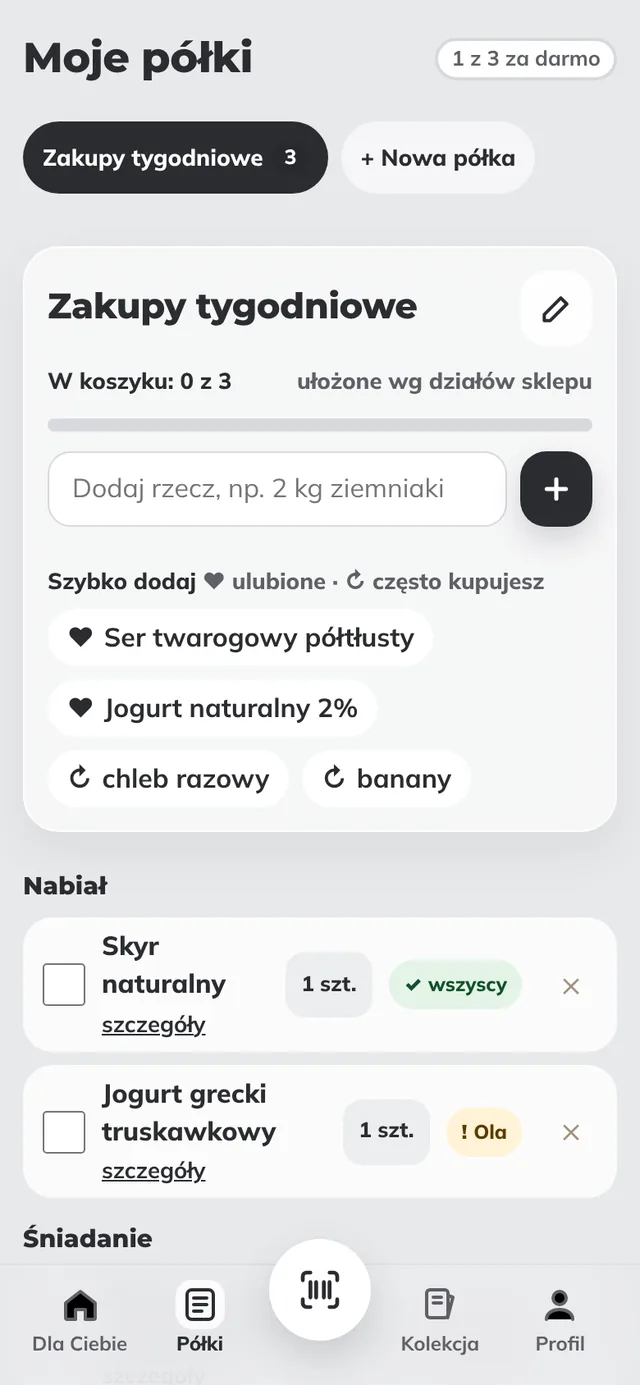
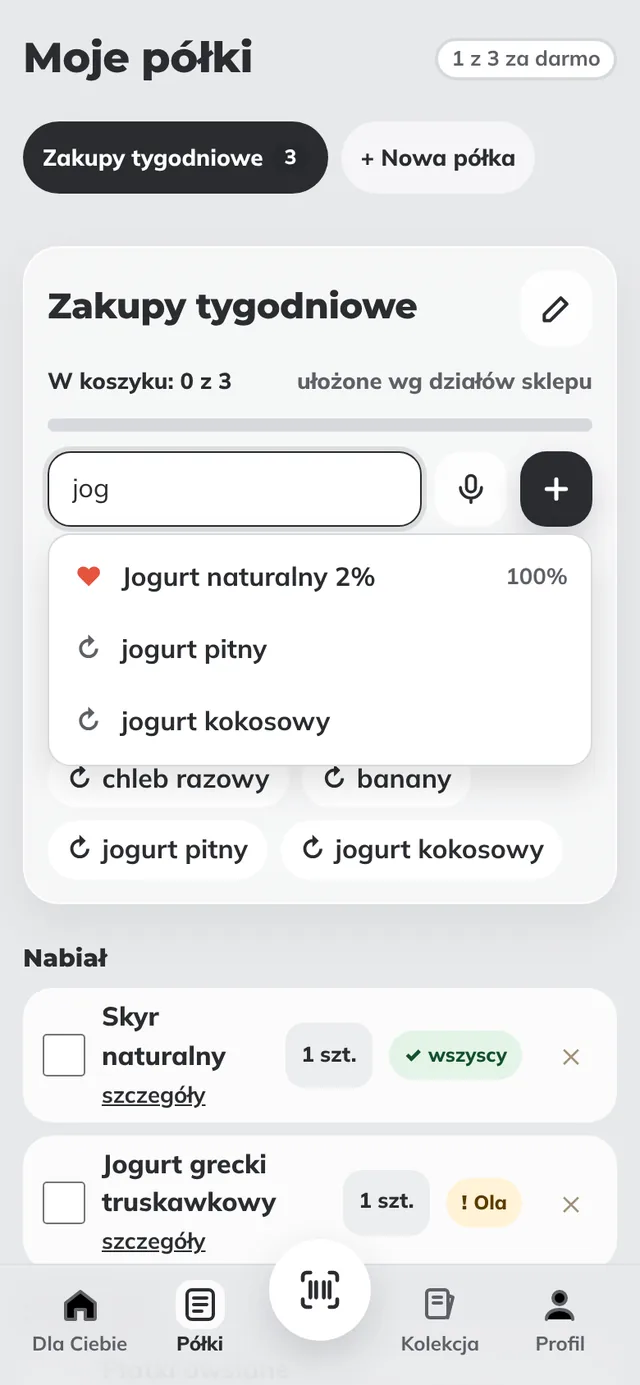
Strona: sekcja Półki – dyktowanie, podpowiedzi i zamiana na zeskanowany produkt (tekst PL/EN, nowy zrzut)
Claude-Session: https://claude.ai/code/session_01UcuQLcZesRZG1Bfc88xLvs

diff --git a/index.html b/index.html
@@ -25,7 +25,7 @@
 <meta name="twitter:title" content="Lupka – jeden skan, wynik dla całej rodziny">
 <meta name="twitter:description" content="Skaner produktów spożywczych i kosmetyków: sprawdza alergie, dietę, cukier i sól jednocześnie dla każdego domownika. Za darmo, bez reklam i bez konta.">
 <meta name="twitter:image" content="https://lupka.app/img/og.jpg">
-<script type="application/ld+json">{"@context":"https://schema.org","@graph":[{"@type":"Organization","@id":"https://lupka.app/#org","name":"Lupka","url":"https://lupka.app/","logo":"https://lupka.app/icon-512.png","founder":{"@type":"Person","name":"Rafał Mokrowiecki"},"email":"rafalmsolutions@gmail.com"},{"@type":"WebSite","@id":"https://lupka.app/#site","name":"Lupka","url":"https://lupka.app/","inLanguage":"pl-PL","publisher":{"@id":"https://lupka.app/#org"}},{"@type":"WebApplication","@id":"https://lupka.app/#app","name":"Lupka","alternateName":"Lupka – skaner produktów dla rodziny","url":"https://lupka.app/app/","description":"Skaner produktów spożywczych i kosmetyków: sprawdza alergie, dietę, cukier i sól jednocześnie dla każdego domownika. Za darmo, bez reklam i bez konta.","applicationCategory":"HealthApplication","applicationSubCategory":"Skaner kodów kreskowych żywności","operatingSystem":"Android, iOS (w przeglądarce, do zainstalowania na ekranie głównym)","browserRequirements":"Wymaga przeglądarki z obsługą JavaScript","inLanguage":"pl-PL","isAccessibleForFree":true,"offers":{"@type":"Offer","price":"0","priceCurrency":"PLN"},"image":"https://lupka.app/img/og.jpg","screenshot":["https://lupka.app/img/prod.webp","https://lupka.app/img/oats.webp","https://lupka.app/img/cmp.webp"],"featureList":["Skanowanie kodu kreskowego żywności i kosmetyków","Wynik dla każdego domownika osobno i jeden wynik dla całej rodziny","Alergeny i diety: gluten, laktoza, orzechy, wegańskie i inne","Pilnowanie cukru, soli, tłuszczów nasyconych, białka","Wyjaśnienie wyniku punkt po punkcie","Lepsze zamienniki z tej samej kategorii","Porównanie 2–3 produktów","Wyszukiwanie po nazwie i marce","Listy zakupów (półki)","Ulubione produkty i szybkie dodawanie często kupowanych","Album, odznaki i wyzwania tygodnia","Działa bez internetu"],"publisher":{"@id":"https://lupka.app/#org"}},{"@type":"FAQPage","@id":"https://lupka.app/#faq","inLanguage":"pl-PL","mainEntity":[{"@type":"Question","name":"Czy Lupka jest darmowa?","acceptedAnswer":{"@type":"Answer","text":"Skanowanie, wynik dla rodziny, wyjaśnienia, zamienniki, porównanie i wyszukiwanie są za darmo i takie zostaną, bez limitu skanów. Później dojdzie płatny pakiet Lupka Plus z wygodnymi dodatkami, np. rodzina na kilku telefonach, wspólna lista zakupów, kopia danych i powiadomienia o wycofanych produktach. Bez reklam i bez sprzedawania danych."}},{"@type":"Question","name":"Czy trzeba coś instalować?","acceptedAnswer":{"@type":"Answer","text":"Nie. Lupka działa w przeglądarce telefonu. Możesz dodać ją do ekranu głównego jak aplikację: w Chrome „Zainstaluj aplikację”, na iPhonie Udostępnij → „Do ekranu początkowego”."}},{"@type":"Question","name":"Skąd są dane o produktach?","acceptedAnswer":{"@type":"Answer","text":"Z Open Food Facts, otwartej bazy tworzonej przez kupujących. Gdy czegoś brakuje, uzupełnisz to zdjęciem etykiety."}},{"@type":"Question","name":"Co, jeśli produktu nie ma?","acceptedAnswer":{"@type":"Answer","text":"Zeskanuj go i dodaj w minutę. Dostaniesz punkty, a produkt zobaczą też inni."}},{"@type":"Question","name":"Czy Lupka zastępuje dietetyka?","acceptedAnswer":{"@type":"Answer","text":"Nie. Pomaga czytać etykiety i porównywać produkty. Przy alergii zawsze sprawdź też etykietę na opakowaniu."}},{"@type":"Question","name":"Czy jest wersja po angielsku?","acceptedAnswer":{"@type":"Answer","text":"Ta strona tak. Aplikacja jest na razie po polsku, wersja angielska jest w planach."}}]}]}</script>
+<script type="application/ld+json">{"@context":"https://schema.org","@graph":[{"@type":"Organization","@id":"https://lupka.app/#org","name":"Lupka","url":"https://lupka.app/","logo":"https://lupka.app/icon-512.png","founder":{"@type":"Person","name":"Rafał Mokrowiecki"},"email":"rafalmsolutions@gmail.com"},{"@type":"WebSite","@id":"https://lupka.app/#site","name":"Lupka","url":"https://lupka.app/","inLanguage":"pl-PL","publisher":{"@id":"https://lupka.app/#org"}},{"@type":"WebApplication","@id":"https://lupka.app/#app","name":"Lupka","alternateName":"Lupka – skaner produktów dla rodziny","url":"https://lupka.app/app/","description":"Skaner produktów spożywczych i kosmetyków: sprawdza alergie, dietę, cukier i sól jednocześnie dla każdego domownika. Za darmo, bez reklam i bez konta.","applicationCategory":"HealthApplication","applicationSubCategory":"Skaner kodów kreskowych żywności","operatingSystem":"Android, iOS (w przeglądarce, do zainstalowania na ekranie głównym)","browserRequirements":"Wymaga przeglądarki z obsługą JavaScript","inLanguage":"pl-PL","isAccessibleForFree":true,"offers":{"@type":"Offer","price":"0","priceCurrency":"PLN"},"image":"https://lupka.app/img/og.jpg","screenshot":["https://lupka.app/img/prod.webp","https://lupka.app/img/oats.webp","https://lupka.app/img/cmp.webp"],"featureList":["Skanowanie kodu kreskowego żywności i kosmetyków","Wynik dla każdego domownika osobno i jeden wynik dla całej rodziny","Alergeny i diety: gluten, laktoza, orzechy, wegańskie i inne","Pilnowanie cukru, soli, tłuszczów nasyconych, białka","Wyjaśnienie wyniku punkt po punkcie","Lepsze zamienniki z tej samej kategorii","Porównanie 2–3 produktów","Wyszukiwanie po nazwie i marce","Listy zakupów (półki)","Ulubione produkty i szybkie dodawanie często kupowanych","Dyktowanie listy zakupów i podpowiedzi podczas pisania","Album, odznaki i wyzwania tygodnia","Działa bez internetu"],"publisher":{"@id":"https://lupka.app/#org"}},{"@type":"FAQPage","@id":"https://lupka.app/#faq","inLanguage":"pl-PL","mainEntity":[{"@type":"Question","name":"Czy Lupka jest darmowa?","acceptedAnswer":{"@type":"Answer","text":"Skanowanie, wynik dla rodziny, wyjaśnienia, zamienniki, porównanie i wyszukiwanie są za darmo i takie zostaną, bez limitu skanów. Później dojdzie płatny pakiet Lupka Plus z wygodnymi dodatkami, np. rodzina na kilku telefonach, wspólna lista zakupów, kopia danych i powiadomienia o wycofanych produktach. Bez reklam i bez sprzedawania danych."}},{"@type":"Question","name":"Czy trzeba coś instalować?","acceptedAnswer":{"@type":"Answer","text":"Nie. Lupka działa w przeglądarce telefonu. Możesz dodać ją do ekranu głównego jak aplikację: w Chrome „Zainstaluj aplikację”, na iPhonie Udostępnij → „Do ekranu początkowego”."}},{"@type":"Question","name":"Skąd są dane o produktach?","acceptedAnswer":{"@type":"Answer","text":"Z Open Food Facts, otwartej bazy tworzonej przez kupujących. Gdy czegoś brakuje, uzupełnisz to zdjęciem etykiety."}},{"@type":"Question","name":"Co, jeśli produktu nie ma?","acceptedAnswer":{"@type":"Answer","text":"Zeskanuj go i dodaj w minutę. Dostaniesz punkty, a produkt zobaczą też inni."}},{"@type":"Question","name":"Czy Lupka zastępuje dietetyka?","acceptedAnswer":{"@type":"Answer","text":"Nie. Pomaga czytać etykiety i porównywać produkty. Przy alergii zawsze sprawdź też etykietę na opakowaniu."}},{"@type":"Question","name":"Czy jest wersja po angielsku?","acceptedAnswer":{"@type":"Answer","text":"Ta strona tak. Aplikacja jest na razie po polsku, wersja angielska jest w planach."}}]}]}</script>
 <link rel="preconnect" href="https://fonts.googleapis.com"><link rel="preconnect" href="https://fonts.gstatic.com" crossorigin>
 <link rel="stylesheet" href="https://fonts.googleapis.com/css2?family=Montserrat:wght@200;300;800;900&family=Mulish:wght@400;600;700;800&display=swap">
 <style>
@@ -304,8 +304,8 @@ footer .links{display:flex;gap:26px;flex-wrap:wrap;font-weight:800;font-size:14.
 <section id="funkcje" style="padding-top:20px"><div class="wrap"><div class="feats" id="feats"><article class="feat" id="rodzina" style="--c:#E5533D"><div class="feat-txt" data-reveal><span class="kick"><span data-t="f1k">DLA RODZINY</span></span><h3><span data-t="f1t">Kupujesz dziś tylko dla dziecka? Wyłącz resztę</span></h3><p><span data-t="f1p">Przy każdym produkcie widzisz kółka wszystkich osób i wiesz, komu nie pasuje i dlaczego. Gdy zakupy są tylko dla części rodziny, wyłączasz pozostałych jednym stuknięciem, a wyniki od razu się przeliczają.</span></p></div>
   <div class="feat-pic" data-reveal><span class="halo" aria-hidden="true"></span><span class="phone tilt"><span class="ph-in"><span class="ph"><i></i><i></i><i></i><i></i><i></i><i></i><span class="ph-body"><span class="ph-btn v1"></span><span class="ph-btn v2"></span><span class="ph-btn pw"></span><span class="ph-bezel"><span class="ph-screen"><span class="ph-sbar"><b>10:24</b><svg viewBox="0 0 46 12" aria-hidden="true"><path d="M1 9h2v2H1zM5 7h2v4H5zM9 5h2v6H9zM13 3h2v8h-2z" fill="#2B2C30"/><path d="M19 5.2a7 7 0 0 1 9 0M20.8 7.4a4.2 4.2 0 0 1 5.4 0" stroke="#2B2C30" stroke-width="1.6" fill="none" stroke-linecap="round"/><circle cx="23.5" cy="9.8" r="1.2" fill="#2B2C30"/><rect x="31.5" y="2.5" width="12" height="7" rx="2" fill="none" stroke="#2B2C30" stroke-width="1.2"/><rect x="33" y="4" width="8" height="4" rx="1" fill="#2B2C30"/><path d="M44.6 5v2" stroke="#2B2C30" stroke-width="1.2" stroke-linecap="round"/></svg></span><span class="ph-shots"><img src="img/oats.webp" alt="Ekran produktu: płatki owsiane nie dla Kuby (gluten)" width="320" height="693" loading="lazy" decoding="async"></span><span class="ph-cam"></span><span class="ph-glare"></span></span></span></span></span></span></span></div></article><article class="feat" id="porownaj" style="--c:#F2B43C"><div class="feat-txt" data-reveal><span class="kick"><span data-t="f2k">PORÓWNAJ</span></span><h3><span data-t="f2t">Dwa jogurty na półce? Porównaj je</span></h3><p><span data-t="f2p">Zeskanuj oba i zobacz je obok siebie: wynik każdej osoby i to, co je różni. Najpierw to, czego pilnujecie.</span></p></div>
   <div class="feat-pic" data-reveal><span class="halo" aria-hidden="true"></span><span class="phone tilt"><span class="ph-in"><span class="ph"><i></i><i></i><i></i><i></i><i></i><i></i><span class="ph-body"><span class="ph-btn v1"></span><span class="ph-btn v2"></span><span class="ph-btn pw"></span><span class="ph-bezel"><span class="ph-screen"><span class="ph-sbar"><b>10:24</b><svg viewBox="0 0 46 12" aria-hidden="true"><path d="M1 9h2v2H1zM5 7h2v4H5zM9 5h2v6H9zM13 3h2v8h-2z" fill="#2B2C30"/><path d="M19 5.2a7 7 0 0 1 9 0M20.8 7.4a4.2 4.2 0 0 1 5.4 0" stroke="#2B2C30" stroke-width="1.6" fill="none" stroke-linecap="round"/><circle cx="23.5" cy="9.8" r="1.2" fill="#2B2C30"/><rect x="31.5" y="2.5" width="12" height="7" rx="2" fill="none" stroke="#2B2C30" stroke-width="1.2"/><rect x="33" y="4" width="8" height="4" rx="1" fill="#2B2C30"/><path d="M44.6 5v2" stroke="#2B2C30" stroke-width="1.2" stroke-linecap="round"/></svg></span><span class="ph-shots"><img src="img/cmp.webp" alt="Porównanie dwóch jogurtów" width="320" height="693" loading="lazy" decoding="async"></span><span class="ph-cam"></span><span class="ph-glare"></span></span></span></span></span></span></span></div></article><article class="feat" id="szukaj" style="--c:#2E9E55"><div class="feat-txt" data-reveal><span class="kick"><span data-t="f3k">SZUKAJ</span></span><h3><span data-t="f3t">Sprawdź jeszcze w domu</span></h3><p><span data-t="f3p">Wpisz nazwę albo markę. Najlepsze produkty dla Twojej rodziny są na górze, te, które komuś nie pasują, na końcu z powodem.</span></p></div>
-  <div class="feat-pic" data-reveal><span class="halo" aria-hidden="true"></span><span class="phone tilt"><span class="ph-in"><span class="ph"><i></i><i></i><i></i><i></i><i></i><i></i><span class="ph-body"><span class="ph-btn v1"></span><span class="ph-btn v2"></span><span class="ph-btn pw"></span><span class="ph-bezel"><span class="ph-screen"><span class="ph-sbar"><b>10:24</b><svg viewBox="0 0 46 12" aria-hidden="true"><path d="M1 9h2v2H1zM5 7h2v4H5zM9 5h2v6H9zM13 3h2v8h-2z" fill="#2B2C30"/><path d="M19 5.2a7 7 0 0 1 9 0M20.8 7.4a4.2 4.2 0 0 1 5.4 0" stroke="#2B2C30" stroke-width="1.6" fill="none" stroke-linecap="round"/><circle cx="23.5" cy="9.8" r="1.2" fill="#2B2C30"/><rect x="31.5" y="2.5" width="12" height="7" rx="2" fill="none" stroke="#2B2C30" stroke-width="1.2"/><rect x="33" y="4" width="8" height="4" rx="1" fill="#2B2C30"/><path d="M44.6 5v2" stroke="#2B2C30" stroke-width="1.2" stroke-linecap="round"/></svg></span><span class="ph-shots"><img src="img/search.webp" alt="Wyszukiwanie po nazwie" width="320" height="693" loading="lazy" decoding="async"></span><span class="ph-cam"></span><span class="ph-glare"></span></span></span></span></span></span></span></div></article><article class="feat" id="polki" style="--c:#F2B43C"><div class="feat-txt" data-reveal><span class="kick"><span data-t="f5k">PÓŁKI</span></span><h3><span data-t="f5t">Lista zakupów z ulubionymi, która wie, co komu pasuje</span></h3><p><span data-t="f5p">Odkładasz produkty na półki, np. „Zakupy tygodniowe”, ułożone według działów sklepu. Przy każdym widać odpowiedź dla rodziny, w sklepie odhaczasz, co już w koszyku, a listę wyślesz domownikom jednym linkiem. Ulubione produkty oznaczasz sercem i razem z tym, co kupujesz często, dodajesz je na listę jednym stuknięciem.</span></p></div>
-  <div class="feat-pic" data-reveal><span class="halo" aria-hidden="true"></span><span class="phone tilt"><span class="ph-in"><span class="ph"><i></i><i></i><i></i><i></i><i></i><i></i><span class="ph-body"><span class="ph-btn v1"></span><span class="ph-btn v2"></span><span class="ph-btn pw"></span><span class="ph-bezel"><span class="ph-screen"><span class="ph-sbar"><b>10:24</b><svg viewBox="0 0 46 12" aria-hidden="true"><path d="M1 9h2v2H1zM5 7h2v4H5zM9 5h2v6H9zM13 3h2v8h-2z" fill="#2B2C30"/><path d="M19 5.2a7 7 0 0 1 9 0M20.8 7.4a4.2 4.2 0 0 1 5.4 0" stroke="#2B2C30" stroke-width="1.6" fill="none" stroke-linecap="round"/><circle cx="23.5" cy="9.8" r="1.2" fill="#2B2C30"/><rect x="31.5" y="2.5" width="12" height="7" rx="2" fill="none" stroke="#2B2C30" stroke-width="1.2"/><rect x="33" y="4" width="8" height="4" rx="1" fill="#2B2C30"/><path d="M44.6 5v2" stroke="#2B2C30" stroke-width="1.2" stroke-linecap="round"/></svg></span><span class="ph-shots"><img src="img/shelf.webp" alt="Półka „Zakupy tygodniowe”: szybkie dodawanie ulubionych i często kupowanych, odpowiedź dla rodziny" width="320" height="693" loading="lazy" decoding="async"></span><span class="ph-cam"></span><span class="ph-glare"></span></span></span></span></span></span></span></div></article><article class="feat" id="album" style="--c:#E5533D"><div class="feat-txt" data-reveal><span class="kick"><span data-t="f4k">POLOWANIE</span></span><h3><span data-t="f4t">Album, który uczy czytać etykiety</span></h3><p><span data-t="f4p">Każda strona albumu to kategoria z miejscami do zdobycia, np. bez oleju palmowego albo dużo białka. Przy każdym miejscu podpowiedź, gdzie to sprawdzić na opakowaniu. Szukasz takich produktów w sklepie, odsłaniasz plakat i zbierasz odznaki.</span></p></div>
+  <div class="feat-pic" data-reveal><span class="halo" aria-hidden="true"></span><span class="phone tilt"><span class="ph-in"><span class="ph"><i></i><i></i><i></i><i></i><i></i><i></i><span class="ph-body"><span class="ph-btn v1"></span><span class="ph-btn v2"></span><span class="ph-btn pw"></span><span class="ph-bezel"><span class="ph-screen"><span class="ph-sbar"><b>10:24</b><svg viewBox="0 0 46 12" aria-hidden="true"><path d="M1 9h2v2H1zM5 7h2v4H5zM9 5h2v6H9zM13 3h2v8h-2z" fill="#2B2C30"/><path d="M19 5.2a7 7 0 0 1 9 0M20.8 7.4a4.2 4.2 0 0 1 5.4 0" stroke="#2B2C30" stroke-width="1.6" fill="none" stroke-linecap="round"/><circle cx="23.5" cy="9.8" r="1.2" fill="#2B2C30"/><rect x="31.5" y="2.5" width="12" height="7" rx="2" fill="none" stroke="#2B2C30" stroke-width="1.2"/><rect x="33" y="4" width="8" height="4" rx="1" fill="#2B2C30"/><path d="M44.6 5v2" stroke="#2B2C30" stroke-width="1.2" stroke-linecap="round"/></svg></span><span class="ph-shots"><img src="img/search.webp" alt="Wyszukiwanie po nazwie" width="320" height="693" loading="lazy" decoding="async"></span><span class="ph-cam"></span><span class="ph-glare"></span></span></span></span></span></span></span></div></article><article class="feat" id="polki" style="--c:#F2B43C"><div class="feat-txt" data-reveal><span class="kick"><span data-t="f5k">PÓŁKI</span></span><h3><span data-t="f5t">Lista zakupów, którą podyktujesz i która wie, co komu pasuje</span></h3><p><span data-t="f5p">Podyktuj listę, np. „mleko, chleb i dwa jogurty”, albo zacznij pisać, a Lupka podpowie ulubione i to, co kupujesz często. Produkty układają się według działów sklepu i przy każdym widać odpowiedź dla rodziny. W sklepie zeskanowane mleko samo zastąpi wpisane „mleko” i trafi do koszyka, a listę wyślesz domownikom jednym linkiem.</span></p></div>
+  <div class="feat-pic" data-reveal><span class="halo" aria-hidden="true"></span><span class="phone tilt"><span class="ph-in"><span class="ph"><i></i><i></i><i></i><i></i><i></i><i></i><span class="ph-body"><span class="ph-btn v1"></span><span class="ph-btn v2"></span><span class="ph-btn pw"></span><span class="ph-bezel"><span class="ph-screen"><span class="ph-sbar"><b>10:24</b><svg viewBox="0 0 46 12" aria-hidden="true"><path d="M1 9h2v2H1zM5 7h2v4H5zM9 5h2v6H9zM13 3h2v8h-2z" fill="#2B2C30"/><path d="M19 5.2a7 7 0 0 1 9 0M20.8 7.4a4.2 4.2 0 0 1 5.4 0" stroke="#2B2C30" stroke-width="1.6" fill="none" stroke-linecap="round"/><circle cx="23.5" cy="9.8" r="1.2" fill="#2B2C30"/><rect x="31.5" y="2.5" width="12" height="7" rx="2" fill="none" stroke="#2B2C30" stroke-width="1.2"/><rect x="33" y="4" width="8" height="4" rx="1" fill="#2B2C30"/><path d="M44.6 5v2" stroke="#2B2C30" stroke-width="1.2" stroke-linecap="round"/></svg></span><span class="ph-shots"><img src="img/shelf.webp" alt="Półka „Zakupy tygodniowe”: mikrofon do dyktowania i podpowiedzi z ulubionych po wpisaniu „jog”" width="320" height="693" loading="lazy" decoding="async"></span><span class="ph-cam"></span><span class="ph-glare"></span></span></span></span></span></span></span></div></article><article class="feat" id="album" style="--c:#E5533D"><div class="feat-txt" data-reveal><span class="kick"><span data-t="f4k">POLOWANIE</span></span><h3><span data-t="f4t">Album, który uczy czytać etykiety</span></h3><p><span data-t="f4p">Każda strona albumu to kategoria z miejscami do zdobycia, np. bez oleju palmowego albo dużo białka. Przy każdym miejscu podpowiedź, gdzie to sprawdzić na opakowaniu. Szukasz takich produktów w sklepie, odsłaniasz plakat i zbierasz odznaki.</span></p></div>
   <div class="feat-pic" data-reveal><span class="halo" aria-hidden="true"></span><span class="phone tilt"><span class="ph-in"><span class="ph"><i></i><i></i><i></i><i></i><i></i><i></i><span class="ph-body"><span class="ph-btn v1"></span><span class="ph-btn v2"></span><span class="ph-btn pw"></span><span class="ph-bezel"><span class="ph-screen"><span class="ph-sbar"><b>10:24</b><svg viewBox="0 0 46 12" aria-hidden="true"><path d="M1 9h2v2H1zM5 7h2v4H5zM9 5h2v6H9zM13 3h2v8h-2z" fill="#2B2C30"/><path d="M19 5.2a7 7 0 0 1 9 0M20.8 7.4a4.2 4.2 0 0 1 5.4 0" stroke="#2B2C30" stroke-width="1.6" fill="none" stroke-linecap="round"/><circle cx="23.5" cy="9.8" r="1.2" fill="#2B2C30"/><rect x="31.5" y="2.5" width="12" height="7" rx="2" fill="none" stroke="#2B2C30" stroke-width="1.2"/><rect x="33" y="4" width="8" height="4" rx="1" fill="#2B2C30"/><path d="M44.6 5v2" stroke="#2B2C30" stroke-width="1.2" stroke-linecap="round"/></svg></span><span class="ph-shots"><img src="img/album.webp" alt="Strona albumu z plakatem" width="320" height="693" loading="lazy" decoding="async"></span><span class="ph-cam"></span><span class="ph-glare"></span></span></span></span></span></span></span></div></article><article class="feat" id="nagrody" style="--c:#2E9E55"><div class="feat-txt" data-reveal><span class="kick"><span data-t="f6k">NAGRODY</span></span><h3><span data-t="f6t">Punkty, poziomy i odznaki za lepsze wybory</span></h3><p><span data-t="f6p">Za sprawdzanie produktów, zamiany na lepsze, zakupy z listy i dodawanie brakujących produktów zbierasz punkty. Rośnie poziom, wpadają odznaki z brązu, srebra i złota, a co tydzień czeka nowe wyzwanie.</span></p></div>
   <div class="feat-pic" data-reveal><span class="halo" aria-hidden="true"></span><span class="phone tilt"><span class="ph-in"><span class="ph"><i></i><i></i><i></i><i></i><i></i><i></i><span class="ph-body"><span class="ph-btn v1"></span><span class="ph-btn v2"></span><span class="ph-btn pw"></span><span class="ph-bezel"><span class="ph-screen"><span class="ph-sbar"><b>10:24</b><svg viewBox="0 0 46 12" aria-hidden="true"><path d="M1 9h2v2H1zM5 7h2v4H5zM9 5h2v6H9zM13 3h2v8h-2z" fill="#2B2C30"/><path d="M19 5.2a7 7 0 0 1 9 0M20.8 7.4a4.2 4.2 0 0 1 5.4 0" stroke="#2B2C30" stroke-width="1.6" fill="none" stroke-linecap="round"/><circle cx="23.5" cy="9.8" r="1.2" fill="#2B2C30"/><rect x="31.5" y="2.5" width="12" height="7" rx="2" fill="none" stroke="#2B2C30" stroke-width="1.2"/><rect x="33" y="4" width="8" height="4" rx="1" fill="#2B2C30"/><path d="M44.6 5v2" stroke="#2B2C30" stroke-width="1.2" stroke-linecap="round"/></svg></span><span class="ph-shots"><img src="img/progress.webp" alt="Kolekcja: poziom, liczniki i odznaki" width="320" height="693" loading="lazy" decoding="async"></span><span class="ph-cam"></span><span class="ph-glare"></span></span></span></span></span></span></span></div></article></div><div class="dots" id="dots" aria-hidden="true"><i class="on"></i><i></i><i></i><i></i><i></i><i></i></div></div></section>
 <section><div class="wrap"><div class="trust" data-reveal><div><svg class="lp-mark still" viewBox="0 0 100 100" aria-hidden="true"><path class="lp-handle" d="M68 68L86 86" stroke="currentColor" stroke-width="12" stroke-linecap="round"/><circle cx="42" cy="42" r="22" fill="#fff"/><g class="lp-ring"><path class="lp-seg" style="--i:0" pathLength="100" d="M50.65 15.37A28 28 0 0 1 37.14 69.57" fill="none" stroke="#2E9E55" stroke-width="12" stroke-linecap="round"/><path class="lp-seg" style="--i:1" pathLength="100" d="M21.86 61.45A28 28 0 0 1 14.61 36.18" fill="none" stroke="#E5533D" stroke-width="12" stroke-linecap="round"/><path class="lp-seg" style="--i:2" pathLength="100" d="M22.55 21.86A28 28 0 0 1 32.42 15.69" fill="none" stroke="#F2B43C" stroke-width="12" stroke-linecap="round"/></g></svg><h2><span data-t="trT">Uczciwie</span></h2><a class="trust-l" href="/jak-liczymy/"><span data-t="trL">Zobacz, jak liczymy wynik →</span></a></div><ul><li data-reveal style="--d:80ms"><svg viewBox="0 0 24 24" aria-hidden="true"><circle cx="12" cy="12" r="11"/><path d="M6.5 12.5l3.5 3.5 7.5-8"/></svg><span data-t="tr1">Bez reklam i bez śledzenia</span></li><li data-reveal style="--d:160ms"><svg viewBox="0 0 24 24" aria-hidden="true"><circle cx="12" cy="12" r="11"/><path d="M6.5 12.5l3.5 3.5 7.5-8"/></svg><span data-t="tr2">Twoje dane zostają w telefonie</span></li><li data-reveal style="--d:240ms"><svg viewBox="0 0 24 24" aria-hidden="true"><circle cx="12" cy="12" r="11"/><path d="M6.5 12.5l3.5 3.5 7.5-8"/></svg><span data-t="tr3">Otwarta baza Open Food Facts: dodane produkty służą wszystkim</span></li><li data-reveal style="--d:320ms"><svg viewBox="0 0 24 24" aria-hidden="true"><circle cx="12" cy="12" r="11"/><path d="M6.5 12.5l3.5 3.5 7.5-8"/></svg><span data-t="tr4">Spokojny ton: „na co dzień” i „od czasu do czasu” zamiast „szkodliwe”</span></li></ul></div></div></section>
@@ -316,7 +316,7 @@ footer .links{display:flex;gap:26px;flex-wrap:wrap;font-weight:800;font-size:14.
 <div class="sticky" id="sticky"><svg><use href="#i-lupka"/></svg><b data-t="stick">Sprawdź, co kupujesz</b><a class="btn" data-app href="/app/"><span data-t="cta">Otwórz Lupkę</span></a></div>
 <script>
 (() => {
-  const T = {"pl": {"nav1": "Jak działa", "nav2": "Dla rodziny", "nav3": "Porównaj", "nav4": "Pytania", "open": "Otwórz aplikację", "kick": "SKANER ZAKUPÓW DLA CAŁEJ RODZINY", "h1a": "Przyjrzyj się.", "h1b": "Wybierz lepiej.", "lead": "Jeden skan i od razu widzisz, czy produkt pasuje każdemu w Twojej rodzinie: alergie, dieta, cukier, sól. Z wyjaśnieniem i lepszym zamiennikiem.", "cta": "Otwórz Lupkę", "free": "Podstawy za darmo · bez reklam · bez zakładania konta", "play": "Wkrótce w Google Play", "qrt": "Masz telefon pod ręką?", "qrp": "Zeskanuj kod aparatem i otwórz Lupkę w telefonie.", "stepsT": "Trzy kroki", "s1t": "Powiedz, czego pilnujecie", "s1p": "Alergie, gluten, laktoza, cukier, sól, olej palmowy. Osobno dla każdego domownika.", "s2t": "Zeskanuj produkt", "s2p": "W sklepie albo w domu. Wystarczy kod kreskowy, nic nie trzeba wpisywać.", "s3t": "Wybierz lepiej", "s3p": "Jeden wynik dla całej rodziny, wyjaśnienie, skąd taki, i co wziąć zamiast.", "f1k": "DLA RODZINY", "f1t": "Kupujesz dziś tylko dla dziecka? Wyłącz resztę", "f1p": "Przy każdym produkcie widzisz kółka wszystkich osób i wiesz, komu nie pasuje i dlaczego. Gdy zakupy są tylko dla części rodziny, wyłączasz pozostałych jednym stuknięciem, a wyniki od razu się przeliczają.", "f2k": "PORÓWNAJ", "f2t": "Dwa jogurty na półce? Porównaj je", "f2p": "Zeskanuj oba i zobacz je obok siebie: wynik każdej osoby i to, co je różni. Najpierw to, czego pilnujecie.", "f3k": "SZUKAJ", "f3t": "Sprawdź jeszcze w domu", "f3p": "Wpisz nazwę albo markę. Najlepsze produkty dla Twojej rodziny są na górze, te, które komuś nie pasują, na końcu z powodem.", "f4k": "POLOWANIE", "f4t": "Album, który uczy czytać etykiety", "f4p": "Każda strona albumu to kategoria z miejscami do zdobycia, np. bez oleju palmowego albo dużo białka. Przy każdym miejscu podpowiedź, gdzie to sprawdzić na opakowaniu. Szukasz takich produktów w sklepie, odsłaniasz plakat i zbierasz odznaki.", "trT": "Uczciwie", "tr1": "Bez reklam i bez śledzenia", "tr2": "Twoje dane zostają w telefonie", "tr3": "Otwarta baza Open Food Facts: dodane produkty służą wszystkim", "tr4": "Spokojny ton: „na co dzień” i „od czasu do czasu” zamiast „szkodliwe”", "faqT": "Pytania", "q1": "Czy Lupka jest darmowa?", "a1": "Skanowanie, wynik dla rodziny, wyjaśnienia, zamienniki, porównanie i wyszukiwanie są za darmo i takie zostaną, bez limitu skanów. Później dojdzie płatny pakiet Lupka Plus z wygodnymi dodatkami, np. rodzina na kilku telefonach, wspólna lista zakupów, kopia danych i powiadomienia o wycofanych produktach. Bez reklam i bez sprzedawania danych.", "q2": "Czy trzeba coś instalować?", "a2": "Nie. Lupka działa w przeglądarce telefonu. Możesz dodać ją do ekranu głównego jak aplikację: w Chrome „Zainstaluj aplikację”, na iPhonie Udostępnij → „Do ekranu początkowego”.", "q3": "Skąd są dane o produktach?", "a3": "Z Open Food Facts, otwartej bazy tworzonej przez kupujących. Gdy czegoś brakuje, uzupełnisz to zdjęciem etykiety.", "q4": "Co, jeśli produktu nie ma?", "a4": "Zeskanuj go i dodaj w minutę. Dostaniesz punkty, a produkt zobaczą też inni.", "q5": "Czy Lupka zastępuje dietetyka?", "a5": "Nie. Pomaga czytać etykiety i porównywać produkty. Przy alergii zawsze sprawdź też etykietę na opakowaniu.", "endT": "Następne zakupy zrób z Lupką", "endP": "Działa od razu w przeglądarce. Bez konta.", "ft1": "Polityka prywatności", "ft2": "Kontakt", "ft3": "Dane: Open Food Facts (ODbL)", "lang": "EN", "dK": "NASZ WYRÓŻNIK", "dT": "Jeden skan. Wynik dla każdego.", "dP": "Lupka sprawdza produkt jednocześnie dla wszystkich, dla których kupujesz. Każdy ma swój profil: alergie, dietę i to, czego pilnuje. Wynik rodziny to wynik osoby, której produkt pasuje najsłabiej, więc nic nie umknie w średniej.", "dProd": "Produkt", "dWho": "Dla kogo dziś kupujesz? Stuknij, żeby włączyć lub wyłączyć", "dTry": "Spróbuj: płatki owsiane i wyłącz Kubę.", "dFam": "rodzina", "dSel": "wybrani", "dOne": "dla: ", "f5k": "PÓŁKI", "f5t": "Lista zakupów z ulubionymi, która wie, co komu pasuje", "f5p": "Odkładasz produkty na półki, np. „Zakupy tygodniowe”, ułożone według działów sklepu. Przy każdym widać odpowiedź dla rodziny, w sklepie odhaczasz, co już w koszyku, a listę wyślesz domownikom jednym linkiem. Ulubione produkty oznaczasz sercem i razem z tym, co kupujesz często, dodajesz je na listę jednym stuknięciem.", "f6k": "NAGRODY", "f6t": "Punkty, poziomy i odznaki za lepsze wybory", "f6p": "Za sprawdzanie produktów, zamiany na lepsze, zakupy z listy i dodawanie brakujących produktów zbierasz punkty. Rośnie poziom, wpadają odznaki z brązu, srebra i złota, a co tydzień czeka nowe wyzwanie.", "enNote": "", "q6": "Czy jest wersja po angielsku?", "a6": "Ta strona tak. Aplikacja jest na razie po polsku, wersja angielska jest w planach.", "dTap": "Stuknij kółko osoby, żeby ją wyłączyć lub włączyć. Spróbuj przy płatkach z Kubą.", "pOla": "pilnuje cukru i tłuszczów nasyconych", "pAnia": "pilnuje cukru", "pKuba": "nie je glutenu, chce więcej białka", "trL": "Zobacz, jak liczymy wynik →", "ft4": "Jak liczymy wynik", "ft5": "Produkty według kategorii", "ft6": "Porównanie aplikacji"}, "en": {"nav1": "How it works", "nav2": "For families", "nav3": "Compare", "nav4": "FAQ", "open": "Open the app", "kick": "A GROCERY SCANNER FOR THE WHOLE FAMILY", "h1a": "Look closer.", "h1b": "Pick better.", "lead": "One scan and you instantly see whether a product suits everyone in your family: allergies, diet, sugar, salt. With the reasons and a better swap.", "cta": "Open Lupka", "free": "Free essentials · no ads · no account", "play": "Coming soon to Google Play", "qrt": "Phone nearby?", "qrp": "Scan the code with your camera to open Lupka on your phone.", "stepsT": "Three steps", "s1t": "Tell us what you watch", "s1p": "Allergies, gluten, lactose, sugar, salt, palm oil. Separately for everyone at home.", "s2t": "Scan a product", "s2p": "In the shop or at home. The barcode is enough, no typing.", "s3t": "Pick better", "s3p": "One score for the whole family, why it is what it is, and what to take instead.", "f1k": "FOR FAMILIES", "f1t": "Shopping just for your kid today? Switch the rest off", "f1p": "Every product shows a circle for each person, so you know who it doesn’t suit and why. When you shop for only part of the family, switch the others off with one tap and the scores update instantly.", "f2k": "COMPARE", "f2t": "Two yogurts on the shelf? Compare them", "f2p": "Scan both and see them side by side: each person’s score and what makes them different, starting with what you watch.", "f3k": "SEARCH", "f3t": "Check before you go", "f3p": "Type a name or brand. The best products for your family come first; the ones that don’t suit someone go last, with the reason.", "f4k": "THE HUNT", "f4t": "An album that teaches you to read labels", "f4p": "Every album page is a category with spots to win, like no palm oil or high protein. Each spot tells you where to check it on the pack. You hunt for such products in the shop, reveal the poster and earn badges.", "trT": "Honest by design", "tr1": "No ads, no tracking", "tr2": "Your data stays on your phone", "tr3": "Open Food Facts open database: products you add help everyone", "tr4": "Calm tone: “everyday” and “now and then” instead of “harmful”", "faqT": "FAQ", "q1": "Is it free?", "a1": "Scanning, the family score, explanations, swaps, comparing and search are free and will stay free, with no scan limits. Later we’ll add an optional paid Lupka Plus with extras such as family sync across phones, a shared shopping list, data backup and product recall alerts. No ads, and we never sell data.", "q2": "Do I need to install anything?", "a2": "No. Lupka runs in your phone’s browser. You can add it to your home screen like an app: “Install app” in Chrome, or Share → “Add to Home Screen” on iPhone.", "q3": "Where does the product data come from?", "a3": "From Open Food Facts, an open database built by shoppers. If something is missing, you can fill it in with a photo of the label.", "q4": "What if a product is missing?", "a4": "Scan it and add it in a minute. You earn points, and others will see it too.", "q5": "Does Lupka replace a dietitian?", "a5": "No. It helps you read labels and compare products. With allergies, always check the label on the pack too.", "endT": "Do your next shop with Lupka", "endP": "Works right away in your browser. No account.", "ft1": "Privacy policy", "ft2": "Contact", "ft3": "Data: Open Food Facts (ODbL)", "lang": "PL", "dK": "WHAT MAKES US DIFFERENT", "dT": "One scan. A score for everyone.", "dP": "Lupka checks a product for everyone you shop for at once. Each person has their own profile: allergies, diet and what they watch. The family score is the score of the person it suits least, so nothing gets lost in an average.", "dProd": "Product", "dWho": "Who are you shopping for today? Tap to switch on or off", "dTry": "Try it: pick the oats and switch Kuba off.", "dFam": "family", "dSel": "selected", "dOne": "for: ", "f5k": "SHELVES", "f5t": "A shopping list with favourites that knows what suits whom", "f5p": "Put products on shelves like “Weekly shop”, sorted by store aisle. Each one shows the family answer; in the shop you tick off what’s in the basket and send the list to your family with one link. Mark favourites with a heart, and add them, along with things you buy often, in one tap.", "f6k": "REWARDS", "f6t": "Points, levels and badges for better choices", "f6p": "Checking products, swapping for better ones, shopping from your list and adding missing products all earn points. You level up, collect bronze, silver and gold badges, and a new challenge waits every week.", "enNote": "The app is in Polish for now (screenshots too). English is on the way.", "q6": "Is the app in English?", "a6": "Not yet. This page is in English, but the app and its screenshots are in Polish for now. An English version is planned.", "dTap": "Tap a person’s circle to switch them off or on. Try the oats with Kuba.", "pOla": "watches sugar and saturated fat", "pAnia": "watches sugar", "pKuba": "no gluten, wants more protein", "trL": "How we score (in Polish) →", "ft4": "How we score (PL)", "ft5": "Products by category (PL)", "ft6": "App comparison (PL)"}};
+  const T = {"pl": {"nav1": "Jak działa", "nav2": "Dla rodziny", "nav3": "Porównaj", "nav4": "Pytania", "open": "Otwórz aplikację", "kick": "SKANER ZAKUPÓW DLA CAŁEJ RODZINY", "h1a": "Przyjrzyj się.", "h1b": "Wybierz lepiej.", "lead": "Jeden skan i od razu widzisz, czy produkt pasuje każdemu w Twojej rodzinie: alergie, dieta, cukier, sól. Z wyjaśnieniem i lepszym zamiennikiem.", "cta": "Otwórz Lupkę", "free": "Podstawy za darmo · bez reklam · bez zakładania konta", "play": "Wkrótce w Google Play", "qrt": "Masz telefon pod ręką?", "qrp": "Zeskanuj kod aparatem i otwórz Lupkę w telefonie.", "stepsT": "Trzy kroki", "s1t": "Powiedz, czego pilnujecie", "s1p": "Alergie, gluten, laktoza, cukier, sól, olej palmowy. Osobno dla każdego domownika.", "s2t": "Zeskanuj produkt", "s2p": "W sklepie albo w domu. Wystarczy kod kreskowy, nic nie trzeba wpisywać.", "s3t": "Wybierz lepiej", "s3p": "Jeden wynik dla całej rodziny, wyjaśnienie, skąd taki, i co wziąć zamiast.", "f1k": "DLA RODZINY", "f1t": "Kupujesz dziś tylko dla dziecka? Wyłącz resztę", "f1p": "Przy każdym produkcie widzisz kółka wszystkich osób i wiesz, komu nie pasuje i dlaczego. Gdy zakupy są tylko dla części rodziny, wyłączasz pozostałych jednym stuknięciem, a wyniki od razu się przeliczają.", "f2k": "PORÓWNAJ", "f2t": "Dwa jogurty na półce? Porównaj je", "f2p": "Zeskanuj oba i zobacz je obok siebie: wynik każdej osoby i to, co je różni. Najpierw to, czego pilnujecie.", "f3k": "SZUKAJ", "f3t": "Sprawdź jeszcze w domu", "f3p": "Wpisz nazwę albo markę. Najlepsze produkty dla Twojej rodziny są na górze, te, które komuś nie pasują, na końcu z powodem.", "f4k": "POLOWANIE", "f4t": "Album, który uczy czytać etykiety", "f4p": "Każda strona albumu to kategoria z miejscami do zdobycia, np. bez oleju palmowego albo dużo białka. Przy każdym miejscu podpowiedź, gdzie to sprawdzić na opakowaniu. Szukasz takich produktów w sklepie, odsłaniasz plakat i zbierasz odznaki.", "trT": "Uczciwie", "tr1": "Bez reklam i bez śledzenia", "tr2": "Twoje dane zostają w telefonie", "tr3": "Otwarta baza Open Food Facts: dodane produkty służą wszystkim", "tr4": "Spokojny ton: „na co dzień” i „od czasu do czasu” zamiast „szkodliwe”", "faqT": "Pytania", "q1": "Czy Lupka jest darmowa?", "a1": "Skanowanie, wynik dla rodziny, wyjaśnienia, zamienniki, porównanie i wyszukiwanie są za darmo i takie zostaną, bez limitu skanów. Później dojdzie płatny pakiet Lupka Plus z wygodnymi dodatkami, np. rodzina na kilku telefonach, wspólna lista zakupów, kopia danych i powiadomienia o wycofanych produktach. Bez reklam i bez sprzedawania danych.", "q2": "Czy trzeba coś instalować?", "a2": "Nie. Lupka działa w przeglądarce telefonu. Możesz dodać ją do ekranu głównego jak aplikację: w Chrome „Zainstaluj aplikację”, na iPhonie Udostępnij → „Do ekranu początkowego”.", "q3": "Skąd są dane o produktach?", "a3": "Z Open Food Facts, otwartej bazy tworzonej przez kupujących. Gdy czegoś brakuje, uzupełnisz to zdjęciem etykiety.", "q4": "Co, jeśli produktu nie ma?", "a4": "Zeskanuj go i dodaj w minutę. Dostaniesz punkty, a produkt zobaczą też inni.", "q5": "Czy Lupka zastępuje dietetyka?", "a5": "Nie. Pomaga czytać etykiety i porównywać produkty. Przy alergii zawsze sprawdź też etykietę na opakowaniu.", "endT": "Następne zakupy zrób z Lupką", "endP": "Działa od razu w przeglądarce. Bez konta.", "ft1": "Polityka prywatności", "ft2": "Kontakt", "ft3": "Dane: Open Food Facts (ODbL)", "lang": "EN", "dK": "NASZ WYRÓŻNIK", "dT": "Jeden skan. Wynik dla każdego.", "dP": "Lupka sprawdza produkt jednocześnie dla wszystkich, dla których kupujesz. Każdy ma swój profil: alergie, dietę i to, czego pilnuje. Wynik rodziny to wynik osoby, której produkt pasuje najsłabiej, więc nic nie umknie w średniej.", "dProd": "Produkt", "dWho": "Dla kogo dziś kupujesz? Stuknij, żeby włączyć lub wyłączyć", "dTry": "Spróbuj: płatki owsiane i wyłącz Kubę.", "dFam": "rodzina", "dSel": "wybrani", "dOne": "dla: ", "f5k": "PÓŁKI", "f5t": "Lista zakupów, którą podyktujesz i która wie, co komu pasuje", "f5p": "Podyktuj listę, np. „mleko, chleb i dwa jogurty”, albo zacznij pisać, a Lupka podpowie ulubione i to, co kupujesz często. Produkty układają się według działów sklepu i przy każdym widać odpowiedź dla rodziny. W sklepie zeskanowane mleko samo zastąpi wpisane „mleko” i trafi do koszyka, a listę wyślesz domownikom jednym linkiem.", "f6k": "NAGRODY", "f6t": "Punkty, poziomy i odznaki za lepsze wybory", "f6p": "Za sprawdzanie produktów, zamiany na lepsze, zakupy z listy i dodawanie brakujących produktów zbierasz punkty. Rośnie poziom, wpadają odznaki z brązu, srebra i złota, a co tydzień czeka nowe wyzwanie.", "enNote": "", "q6": "Czy jest wersja po angielsku?", "a6": "Ta strona tak. Aplikacja jest na razie po polsku, wersja angielska jest w planach.", "dTap": "Stuknij kółko osoby, żeby ją wyłączyć lub włączyć. Spróbuj przy płatkach z Kubą.", "pOla": "pilnuje cukru i tłuszczów nasyconych", "pAnia": "pilnuje cukru", "pKuba": "nie je glutenu, chce więcej białka", "trL": "Zobacz, jak liczymy wynik →", "ft4": "Jak liczymy wynik", "ft5": "Produkty według kategorii", "ft6": "Porównanie aplikacji"}, "en": {"nav1": "How it works", "nav2": "For families", "nav3": "Compare", "nav4": "FAQ", "open": "Open the app", "kick": "A GROCERY SCANNER FOR THE WHOLE FAMILY", "h1a": "Look closer.", "h1b": "Pick better.", "lead": "One scan and you instantly see whether a product suits everyone in your family: allergies, diet, sugar, salt. With the reasons and a better swap.", "cta": "Open Lupka", "free": "Free essentials · no ads · no account", "play": "Coming soon to Google Play", "qrt": "Phone nearby?", "qrp": "Scan the code with your camera to open Lupka on your phone.", "stepsT": "Three steps", "s1t": "Tell us what you watch", "s1p": "Allergies, gluten, lactose, sugar, salt, palm oil. Separately for everyone at home.", "s2t": "Scan a product", "s2p": "In the shop or at home. The barcode is enough, no typing.", "s3t": "Pick better", "s3p": "One score for the whole family, why it is what it is, and what to take instead.", "f1k": "FOR FAMILIES", "f1t": "Shopping just for your kid today? Switch the rest off", "f1p": "Every product shows a circle for each person, so you know who it doesn’t suit and why. When you shop for only part of the family, switch the others off with one tap and the scores update instantly.", "f2k": "COMPARE", "f2t": "Two yogurts on the shelf? Compare them", "f2p": "Scan both and see them side by side: each person’s score and what makes them different, starting with what you watch.", "f3k": "SEARCH", "f3t": "Check before you go", "f3p": "Type a name or brand. The best products for your family come first; the ones that don’t suit someone go last, with the reason.", "f4k": "THE HUNT", "f4t": "An album that teaches you to read labels", "f4p": "Every album page is a category with spots to win, like no palm oil or high protein. Each spot tells you where to check it on the pack. You hunt for such products in the shop, reveal the poster and earn badges.", "trT": "Honest by design", "tr1": "No ads, no tracking", "tr2": "Your data stays on your phone", "tr3": "Open Food Facts open database: products you add help everyone", "tr4": "Calm tone: “everyday” and “now and then” instead of “harmful”", "faqT": "FAQ", "q1": "Is it free?", "a1": "Scanning, the family score, explanations, swaps, comparing and search are free and will stay free, with no scan limits. Later we’ll add an optional paid Lupka Plus with extras such as family sync across phones, a shared shopping list, data backup and product recall alerts. No ads, and we never sell data.", "q2": "Do I need to install anything?", "a2": "No. Lupka runs in your phone’s browser. You can add it to your home screen like an app: “Install app” in Chrome, or Share → “Add to Home Screen” on iPhone.", "q3": "Where does the product data come from?", "a3": "From Open Food Facts, an open database built by shoppers. If something is missing, you can fill it in with a photo of the label.", "q4": "What if a product is missing?", "a4": "Scan it and add it in a minute. You earn points, and others will see it too.", "q5": "Does Lupka replace a dietitian?", "a5": "No. It helps you read labels and compare products. With allergies, always check the label on the pack too.", "endT": "Do your next shop with Lupka", "endP": "Works right away in your browser. No account.", "ft1": "Privacy policy", "ft2": "Contact", "ft3": "Data: Open Food Facts (ODbL)", "lang": "PL", "dK": "WHAT MAKES US DIFFERENT", "dT": "One scan. A score for everyone.", "dP": "Lupka checks a product for everyone you shop for at once. Each person has their own profile: allergies, diet and what they watch. The family score is the score of the person it suits least, so nothing gets lost in an average.", "dProd": "Product", "dWho": "Who are you shopping for today? Tap to switch on or off", "dTry": "Try it: pick the oats and switch Kuba off.", "dFam": "family", "dSel": "selected", "dOne": "for: ", "f5k": "SHELVES", "f5t": "A shopping list you can dictate, that knows what suits whom", "f5p": "Dictate your list, e.g. “milk, bread and two yogurts”, or start typing and Lupka suggests your favourites and what you buy often. Items are sorted by store aisle and each shows the family answer. In the shop, a scanned milk replaces the “milk” you typed and goes straight into the basket, and you send the list to your family with one link.", "f6k": "REWARDS", "f6t": "Points, levels and badges for better choices", "f6p": "Checking products, swapping for better ones, shopping from your list and adding missing products all earn points. You level up, collect bronze, silver and gold badges, and a new challenge waits every week.", "enNote": "The app is in Polish for now (screenshots too). English is on the way.", "q6": "Is the app in English?", "a6": "Not yet. This page is in English, but the app and its screenshots are in Polish for now. An English version is planned.", "dTap": "Tap a person’s circle to switch them off or on. Try the oats with Kuba.", "pOla": "watches sugar and saturated fat", "pAnia": "watches sugar", "pKuba": "no gluten, wants more protein", "trL": "How we score (in Polish) →", "ft4": "How we score (PL)", "ft5": "Products by category (PL)", "ft6": "App comparison (PL)"}};
   T.pl.chip1 = 'Pasuje wszystkim'; T.pl.chip1s = 'Skyr: Ola, Ania, Kuba'; T.pl.chip2 = 'Nie dla: Kuba'; T.pl.chip2s = 'płatki: gluten'; T.pl.stick = 'Sprawdź, co kupujesz';
   T.en.chip1 = 'Suits everyone'; T.en.chip1s = 'Skyr: Ola, Ania, Kuba'; T.en.chip2 = 'Not for: Kuba'; T.en.chip2s = 'oats: gluten'; T.en.stick = 'Check what you buy';
   // Stare linki do aplikacji (lupka.app/#/p/590…) i zainstalowana aplikacja: od razu do aplikacji.
